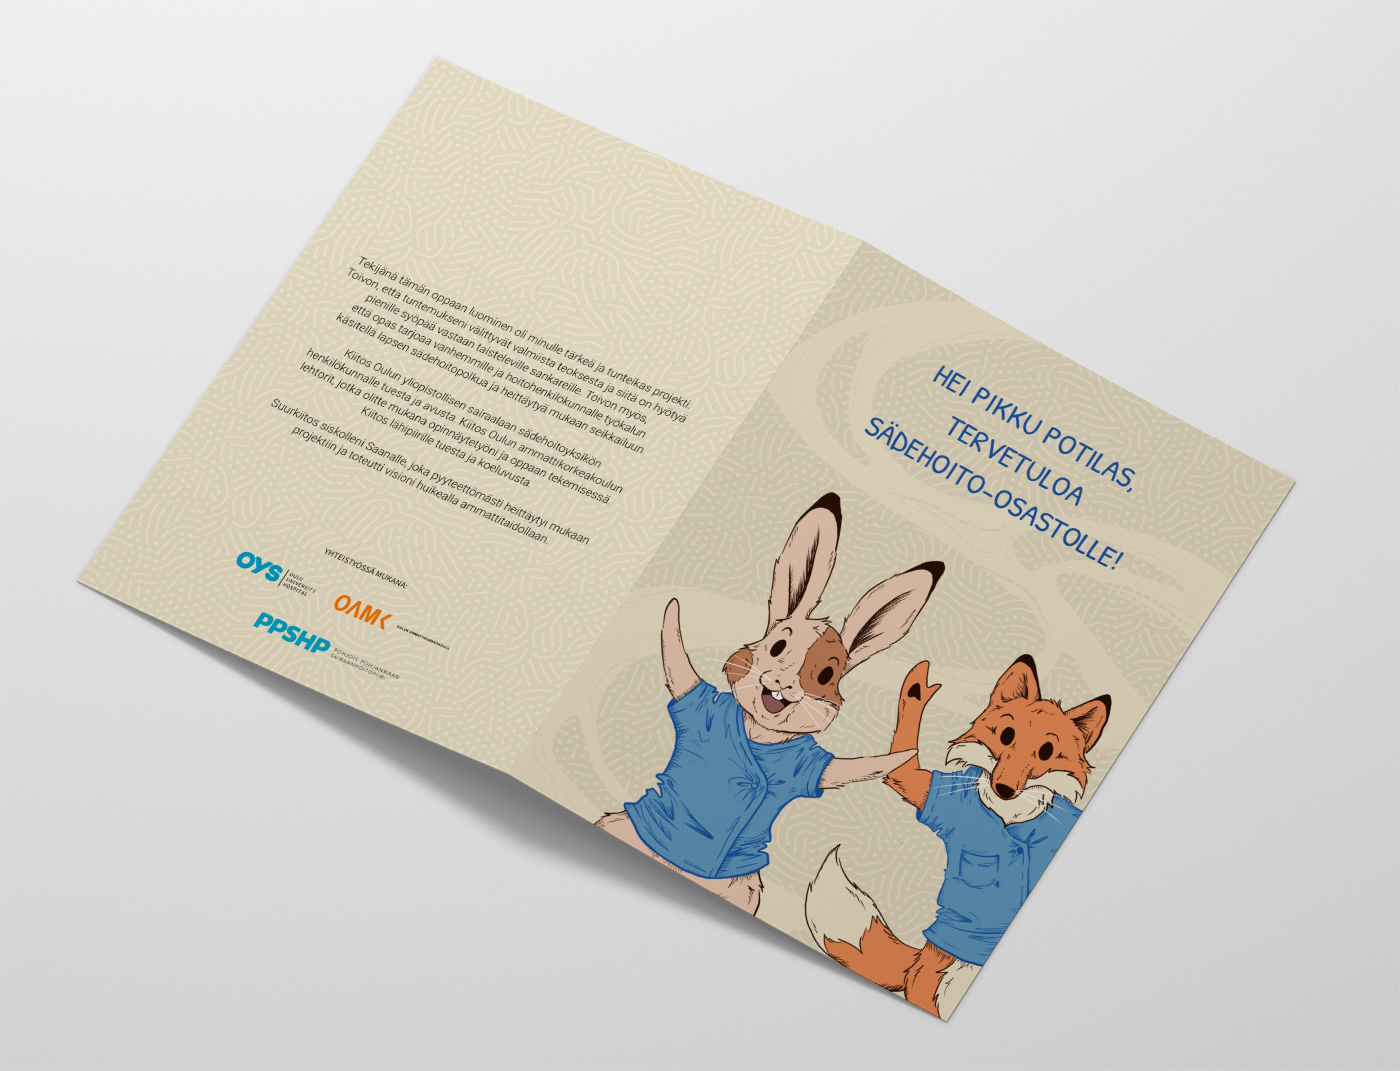
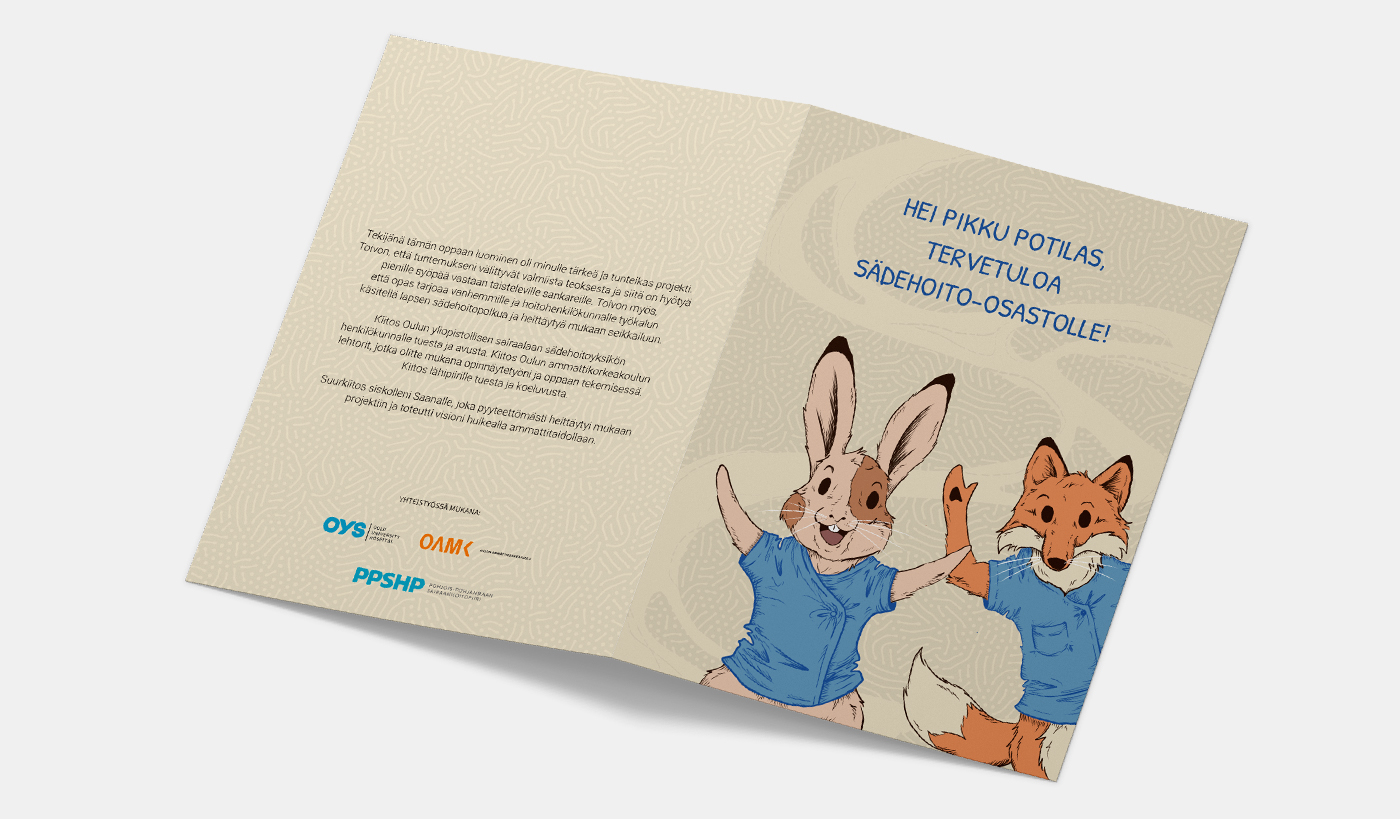
paivitys kuviin

diff --git a/illustr_thesis.html b/illustr_thesis.html
@@ -39,10 +39,12 @@
             <h2>Ulkoasun toteutus ja taitto.</h2>
                 <p>Pohjautuu Milka Lapinkankaan syksyllä 2022 tehdyn Oulun ammattikorkeakoulun radiografian ja sädehoidon tutkinto-ohjelman opinnäytetyöhön.</p>
 <div class="galleria">
-                <img src="https://raw.githubusercontent.com/saanalapinkangas/saanalapinkangas.github.io/main/images/files/opinnaytetyo1.png">
-                <img src="https://raw.githubusercontent.com/saanalapinkangas/saanalapinkangas.github.io/main/images/files/opinnaytetyo2.png">
-                <img src="https://raw.githubusercontent.com/saanalapinkangas/saanalapinkangas.github.io/main/images/files/opinnaytetyo3.png">
-                <img src="https://raw.githubusercontent.com/saanalapinkangas/saanalapinkangas.github.io/main/images/files/opinnaytetyo4.png">
+                <img src="https://raw.githubusercontent.com/saanalapinkangas/saanalapinkangas.github.io/main/images/files/opinnaytetyo1.jpg">
+                <img src="https://raw.githubusercontent.com/saanalapinkangas/saanalapinkangas.github.io/main/images/files/opinnaytetyo2.jpg">
+                <img src="https://raw.githubusercontent.com/saanalapinkangas/saanalapinkangas.github.io/main/images/files/opinnaytetyo3.jpg">
+                <img src="https://raw.githubusercontent.com/saanalapinkangas/saanalapinkangas.github.io/main/images/files/opinnaytetyo4.jpg">
+                <img src="https://raw.githubusercontent.com/saanalapinkangas/saanalapinkangas.github.io/main/images/files/opinnaytetyo5.jpg">
+                <img src="https://raw.githubusercontent.com/saanalapinkangas/saanalapinkangas.github.io/main/images/files/opinnaytetyo6.jpg">
                </div> 
                <p>tähän seuraava/edellinen juttu?</p>
             </div>

diff --git a/assets/stylePages.css b/assets/stylePages.css
@@ -139,6 +139,7 @@ body {
 
     /* typografia */
 
+    /* h1: mitä tehty */
     h1 {
         font-size: 20px;
         color: #D2BBB1;
@@ -147,12 +148,20 @@ body {
         margin-bottom: 5px;
     }
 
+    /* h2: asiakas, tekopaikka, aihe
+        esim. Yritys Oy, Koulun harj.työ, Opinnaytetyö*/
     h2 {
         font-size: 15px;
         color: #D2BBB1;
         text-transform: uppercase;
         font-weight: lighter;
         margin-bottom: 20px;
+    }
+
+    .sisalto p {
+        width: 40%;
+        font-size: 14px;
+        color: gray;
     }
 
 
